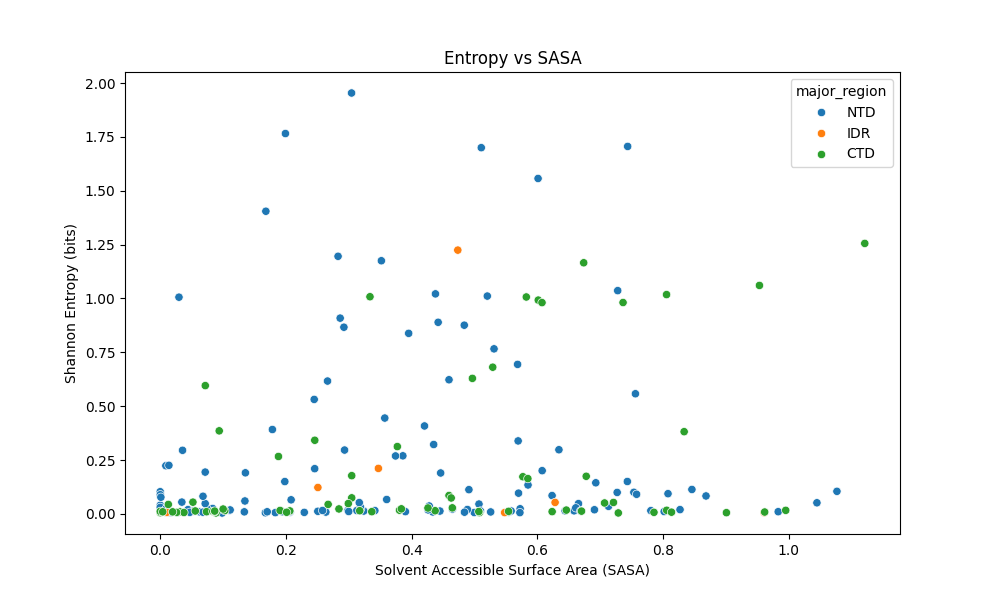
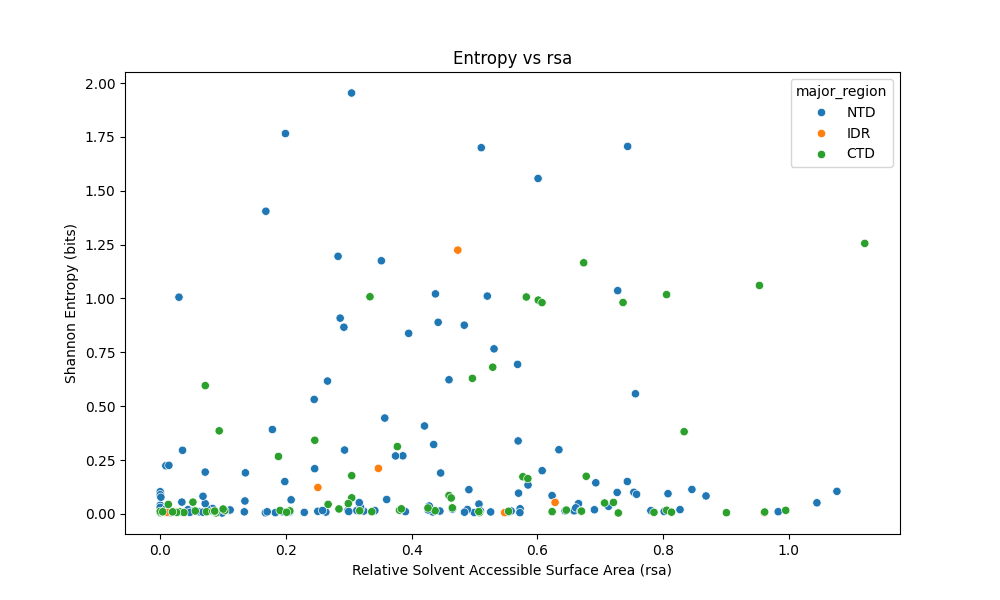
check in 2 and scatter plot renames

Changed region(s): [[0.341, 0.93, 0.682, 0.96], [0.434, 0.09, 0.589, 0.12]]

diff --git a/src/plot_entropy_structure.py b/src/plot_entropy_structure.py
@@ -71,9 +71,9 @@ def plot_entropy_sasa_scatter_major(merged_df, output_file):
     sns.scatterplot(data=merged_df, x="rsa", y="entropy_bits", hue="major_region")
     
     # Set plot labels and title
-    plt.xlabel("Solvent Accessible Surface Area (SASA)")
+    plt.xlabel("Relative Solvent Accessible Surface Area (rsa)")
     plt.ylabel("Shannon Entropy (bits)")
-    plt.title("Entropy vs SASA") # by Variant")
+    plt.title("Entropy vs rsa") # by Variant")
     
     # Save the plot to a file
     plt.savefig(output_file)
@@ -85,9 +85,9 @@ def plot_entropy_sasa_scatter_minor(merged_df, output_file):
     sns.scatterplot(data=merged_df, x="rsa", y="entropy_bits", hue="minor_region")
     
     # Set plot labels and title
-    plt.xlabel("Solvent Accessible Surface Area (SASA)")
+    plt.xlabel("Relative Solvent Accessible Surface Area (rsa)")
     plt.ylabel("Shannon Entropy (bits)")
-    plt.title("Entropy vs SASA") # by Variant")
+    plt.title("Entropy vs rsa") # by Variant")
     
     # Save the plot to a file
     plt.savefig(output_file)

diff --git a/doc/check-in2.md b/doc/check-in2.md
@@ -1,0 +1,15 @@
+1. How we’ve addressed prior feedback
+Sam and Rajiv suggested using Snakemake as origanizational tools for our pipeline. We thought this was a useful suggestion and considered adopting it, but decided to continue developing our existing Python workflow because most of the established scripts and pipelines were already made and we had already invested time in connecting the analysis scripts and HPC workflow as is. In response to Rajiv’s feedback about interpreting our figures, we noticably see regions within the p24 protein that have higher entropy than others - likely due to the importance of those strucutres in HIV efficacy. We've extended our visualizations to connect sequence variability with structural regions and solvent accessibility to further assess this and help with interpretability in the structural domain. We (with the help of HopGPT) have created a flowchart in the docs/ to explain the progression of our methods and make the scripts, input files, and outputs easier to follow for its current stage
+
+2. New progress since the last submission
+Our main progress has been developing additional code to integrate structural information with our entropy analysis and generate the following figures:
+•	Overall entropy plots with structural annotations: These show entropy across p24 amino acid positions, with a second panel showing reference solvent accessibility
+•	Variant-specific entropy plots: These compare entropy patterns among variant groups alongside a shared reference solvent accessibility panel although specific variants are difficult to tell apart
+•	Entropy versus relative solvent accessibility scatterplots: These display variability against accessibility, with points colored by structural region
+We created both major and minor region versions of the structural plots. The major-region versions distinguish NTD, IDR, and CTD, while the minor-region versions show more detailed features, including individual helices, providing different levels of detail for examining where variability occurs. We also added code to map alignment columns to HXB2 p24 amino acid positions and combine variant entropy values with structural annotations and reference solvent accessibility. The combined data are saved as csv files for further analysis. Our new flowchart documents the workflow from sequence extraction, gap removal, and short-sequence filtering through alignment, frequency and entropy calculations, reference mapping, and visualization. In the overall entropy plots, many positions have entropy near zero, with scattered peaks of higher variability. This provides a starting point for identifying variable positions and evaluating whether their patterns differ among structural regions or relate to solvent accessibility.
+
+3. Project organization
+We have maintained our GitHub folder structure by separating analysis scripts, input data, results, and pilot-run outputs. Our existing Markdown project overview describes the background, goals, reference studies, and software used. The new workflow diagram shows how the analysis steps connect. We can add it to the Markdown doc too, but for now, we’re using it to help us keep track of the workflow as it will be updated as we continue working on the project.
+
+4. Struggles and questions for advice
+Our variant-specific entropy plots contain many overlapping lines, which can make individual patterns difficult to compare. Would showing a smaller set of variants in separate panels make our comparisons easier to interpret? The authors of the paper Paloma Troyano-Hernáez et al., 2022 over clustered the variant groups into 4 main categories - which would make the heatmap a lot easier to read but lose a lot of the strucutral variations in the different variants. We would appreciate advice on analysis and comparisons while keeping the figures readable. We are also planning on doing some quantitative analysis to assess if SASA, strucutral annotation, and variant are correlated with entropy bits at amino acid position. Is scipy the right python package to follow thorugh on that analysis?
